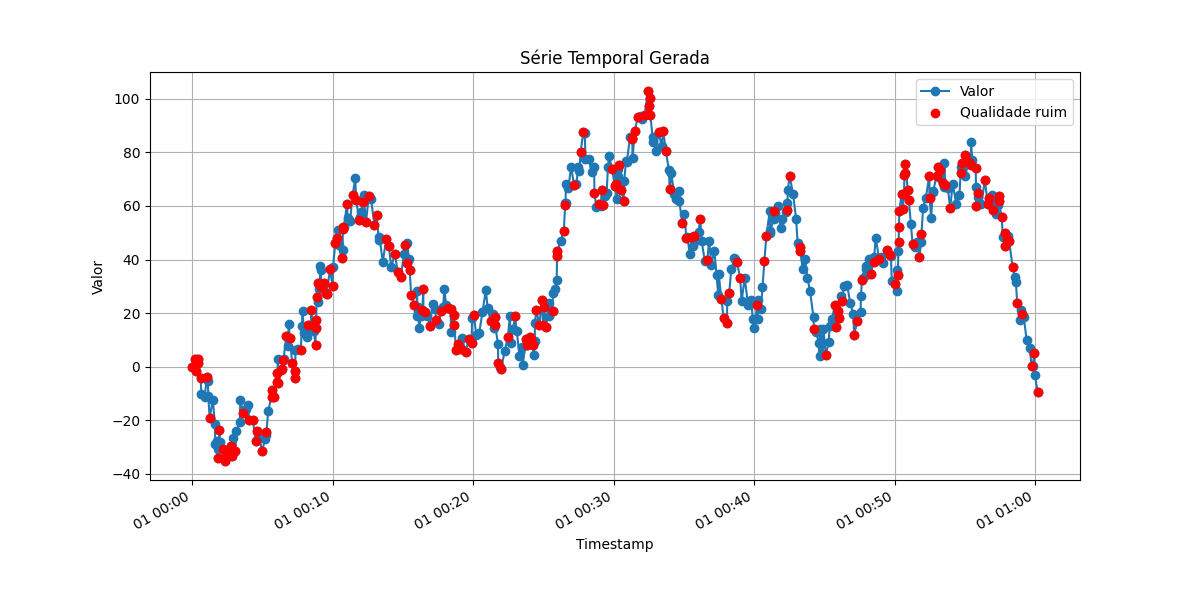
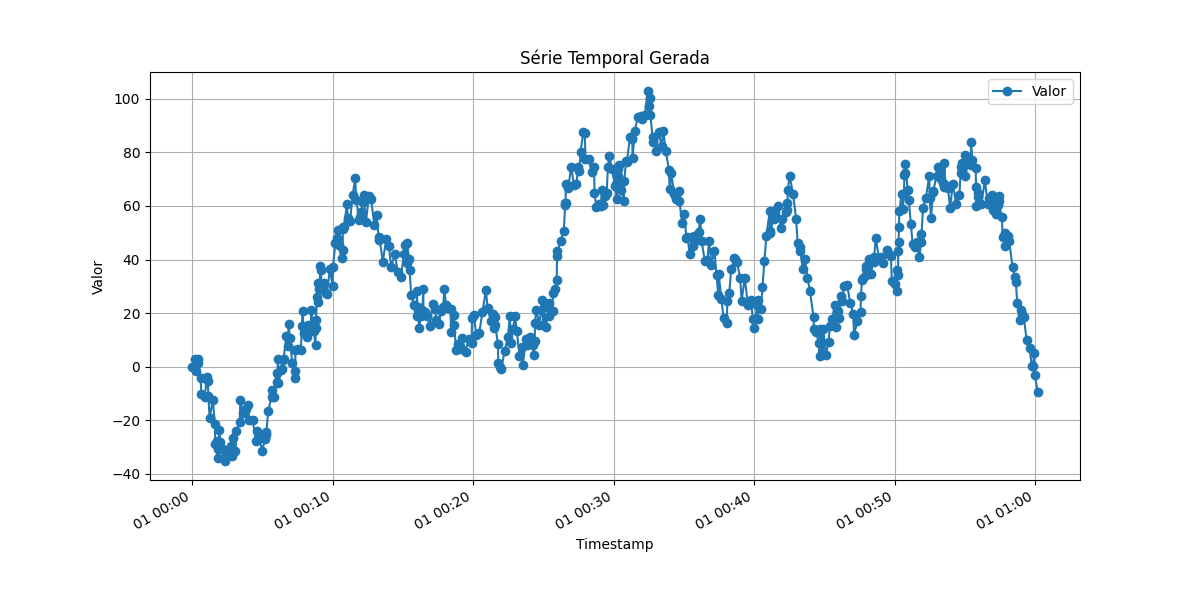
remove_quality_from_graph

diff --git a/resources/plots.py b/resources/plots.py
@@ -5,21 +5,15 @@ def plotar_timeseries(series, file_name='grafico'):
     Plota a série temporal de valores gerados.
     
     Args:
-        series (list): Lista de tuplas (valor: float, timestamp: datetime.datetime, qualidade: int)
+        series (list): Lista de tuplas (valor: float, timestamp: datetime.datetime)
     """
     valores = [item[0] for item in series]
     tempos = [item[1] for item in series]
-    qualidades = [item[2] for item in series]
 
     fig, ax = plt.subplots(figsize=(12, 6))
     
     ax.plot(tempos, valores, label="Valor", marker='o')
-    
-    tempos_ruins = [tempos[i] for i in range(len(qualidades)) if qualidades[i] == 0]
-    valores_ruins = [valores[i] for i in range(len(qualidades)) if qualidades[i] == 0]
-    if tempos_ruins:
-        ax.scatter(tempos_ruins, valores_ruins, color='red', label="Qualidade ruim", zorder=5)
-    
+
     ax.set_xlabel("Timestamp")
     ax.set_ylabel("Valor")
     ax.set_title("Série Temporal Gerada")
